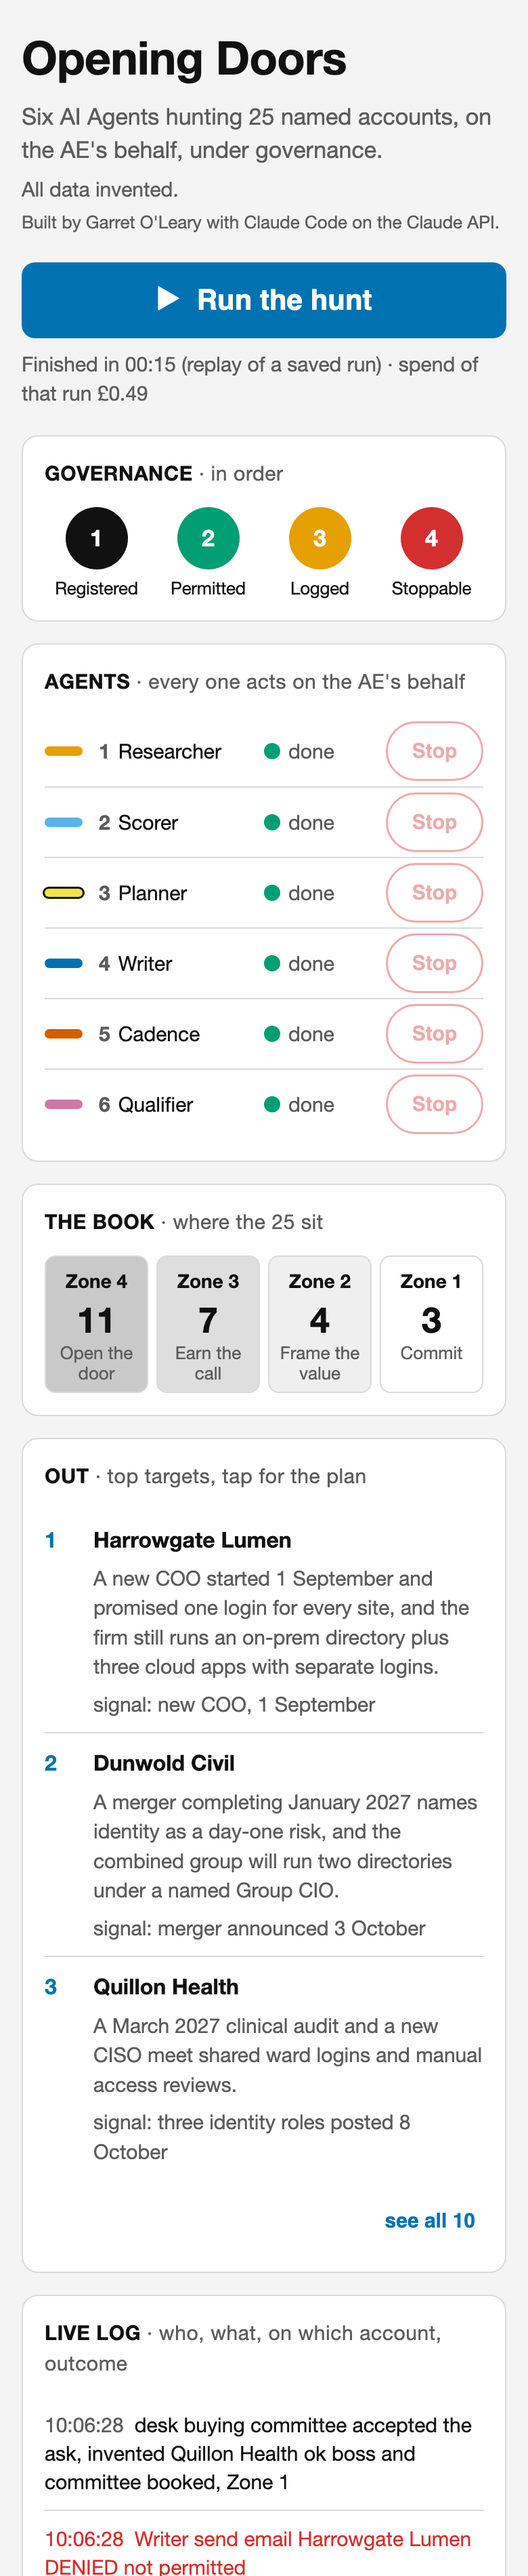
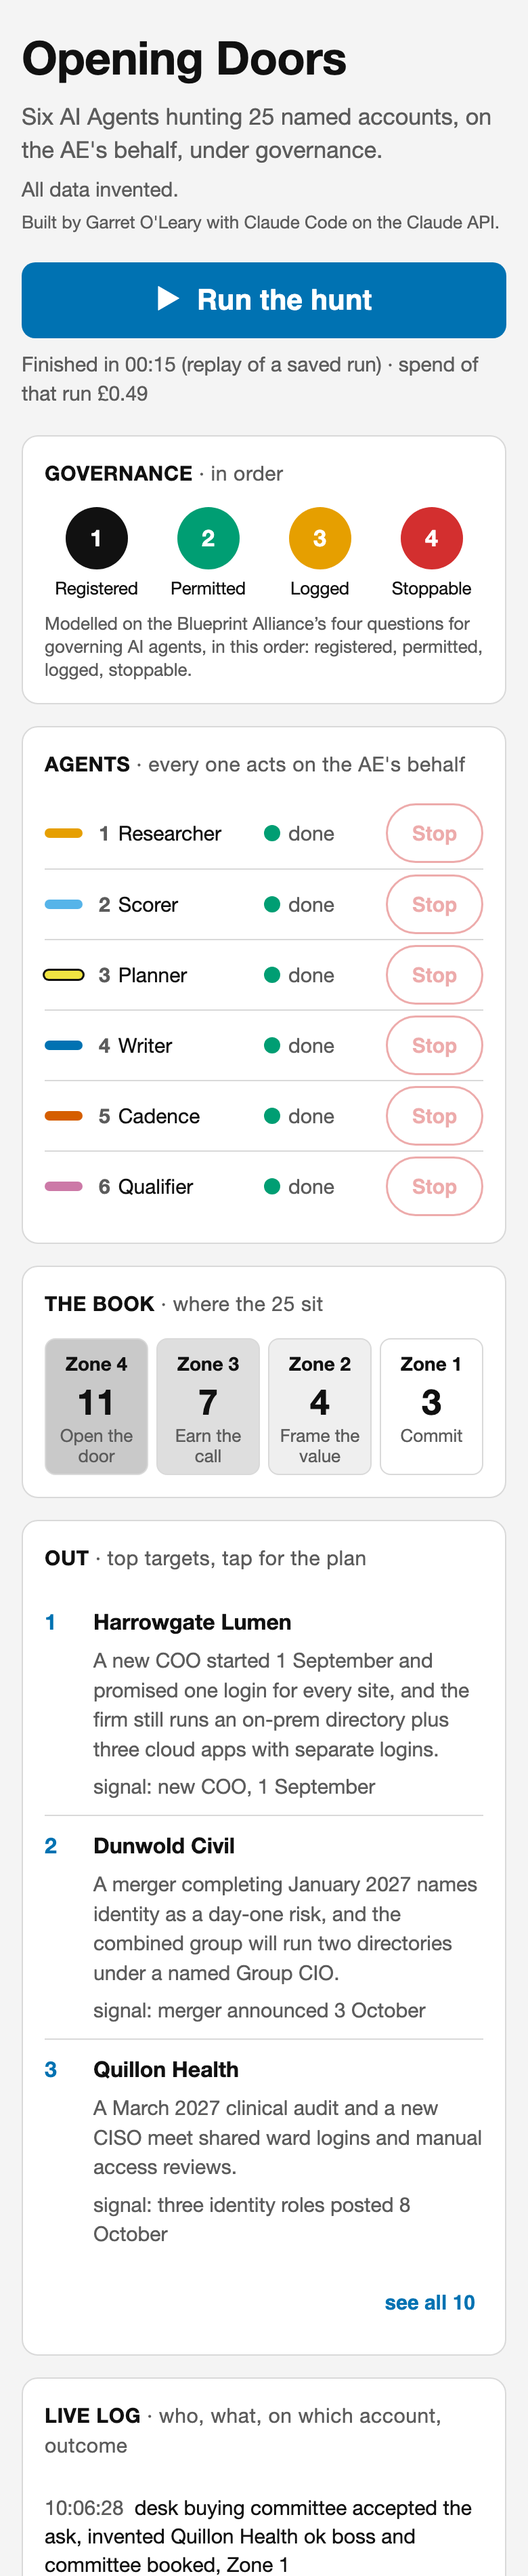
Blueprint Alliance line under the lights

Changed region(s): [[0.0615, 0.2484, 0.9231, 1.0], [0.8615, 0.8384, 0.8923, 0.9005]]

diff --git a/web/index.html b/web/index.html
@@ -35,6 +35,7 @@
   .light.on.green .dot { background: var(--green); }
   .light.on.amber .dot { background: var(--amber); }
   .light.on.red .dot { background: var(--red); }
+  .govline { margin: 10px 0 0; color: var(--muted); font-size: 13px; line-height: 1.3; }
   .light .label { font-size: 13px; line-height: 1.2; white-space: nowrap; overflow: hidden; text-overflow: clip; letter-spacing: -0.01em; }
   .agents { list-style: none; margin: 0; padding: 0; }
   .agents li { display: grid; grid-template-columns: 34px minmax(0, 1fr) 84px 72px; align-items: center; gap: 6px; min-height: 52px; border-top: 1px solid var(--line); }
@@ -119,6 +120,7 @@
     .card.gov .light .dot { width: 42px; height: 42px; font-size: 17px; margin-bottom: 4px; }
     .card.gov .light .label { font-size: 14px; white-space: nowrap; }
     .card.gov .lights { gap: 24px; max-width: 560px; margin: 0 auto; }
+    .card.gov .govline { text-align: center; margin: 6px auto 0; max-width: 720px; font-size: 12px; }
     .card.gov h2 { margin: 0; }
     .card.gov .lights { gap: 24px; max-width: 760px; margin: 0 auto; }
     .card.gov .stripinfo { text-align: right; font-size: 15px; color: var(--muted); }
@@ -179,11 +181,14 @@
 
   <section class="card gov" aria-label="Governance">
     <h2>GOVERNANCE <span>&middot; in order</span></h2>
-    <div class="lights">
-      <div class="light black" id="l-registered"><div class="dot">1</div><div class="label">Registered</div></div>
-      <div class="light green" id="l-permitted"><div class="dot">2</div><div class="label">Permitted</div></div>
-      <div class="light amber" id="l-logged"><div class="dot">3</div><div class="label">Logged</div></div>
-      <div class="light red" id="l-stoppable"><div class="dot">4</div><div class="label">Stoppable</div></div>
+    <div class="govmid">
+      <div class="lights">
+        <div class="light black" id="l-registered"><div class="dot">1</div><div class="label">Registered</div></div>
+        <div class="light green" id="l-permitted"><div class="dot">2</div><div class="label">Permitted</div></div>
+        <div class="light amber" id="l-logged"><div class="dot">3</div><div class="label">Logged</div></div>
+        <div class="light red" id="l-stoppable"><div class="dot">4</div><div class="label">Stoppable</div></div>
+      </div>
+      <p class="govline">Modelled on the Blueprint Alliance&rsquo;s four questions for governing AI agents, in this order: registered, permitted, logged, stoppable.</p>
     </div>
     <div class="stripinfo desktop-only" id="stripinfo"></div>
   </section>

diff --git a/README.md b/README.md
@@ -30,7 +30,7 @@ Orchestration is not an agent. It is the desk, a plain controller that hands wor
 
 ## Governance
 
-Modelled on the Blueprint Alliance's four questions, asked in this order:
+The Blueprint Alliance published its whitepaper, Governing Agentic Execution, in September 2026. Its four questions for governing AI agents are modelled here, asked in this order:
 
 1. Registered. Where are my agents? A registry: identity, owner, purpose, creation time. Nothing runs unless registered.
 2. Permitted. What can they do? A permission list per agent, enforced in code. A denied call is logged and refused.
